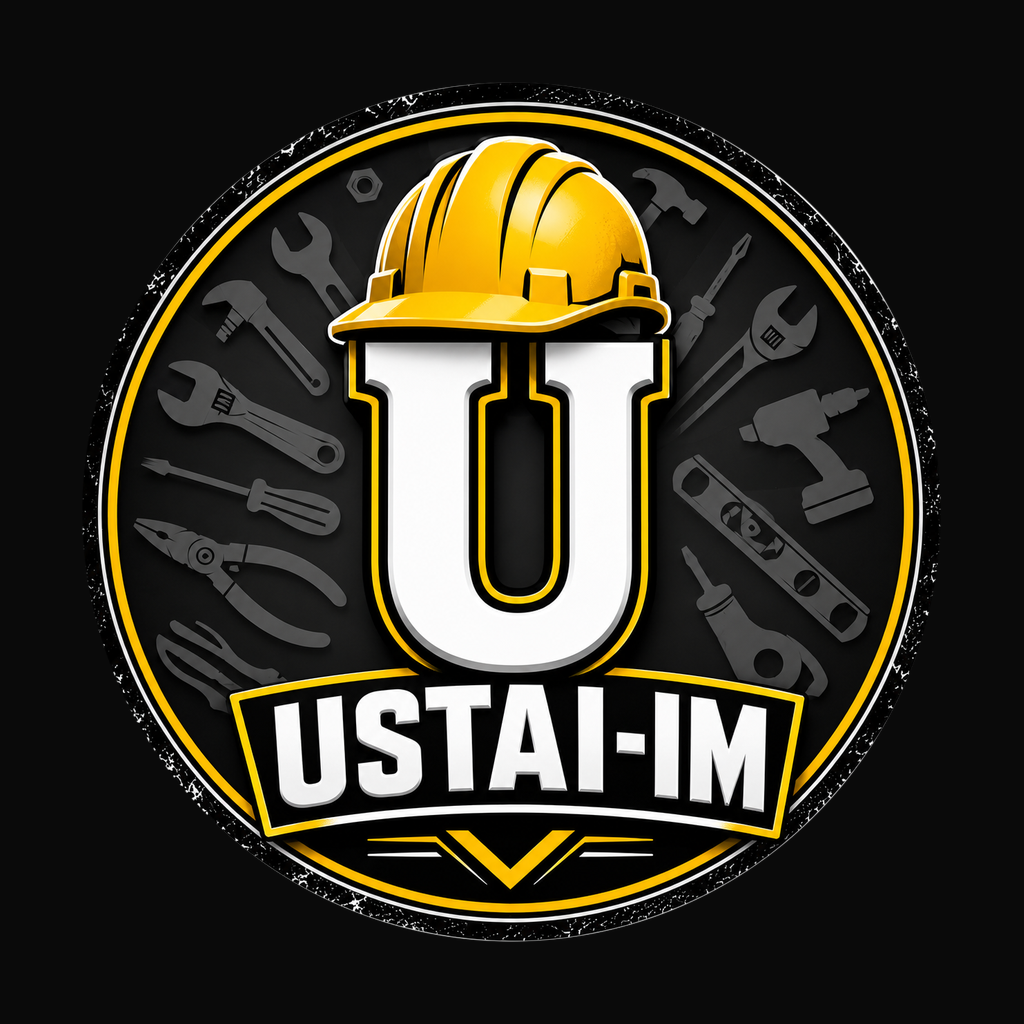
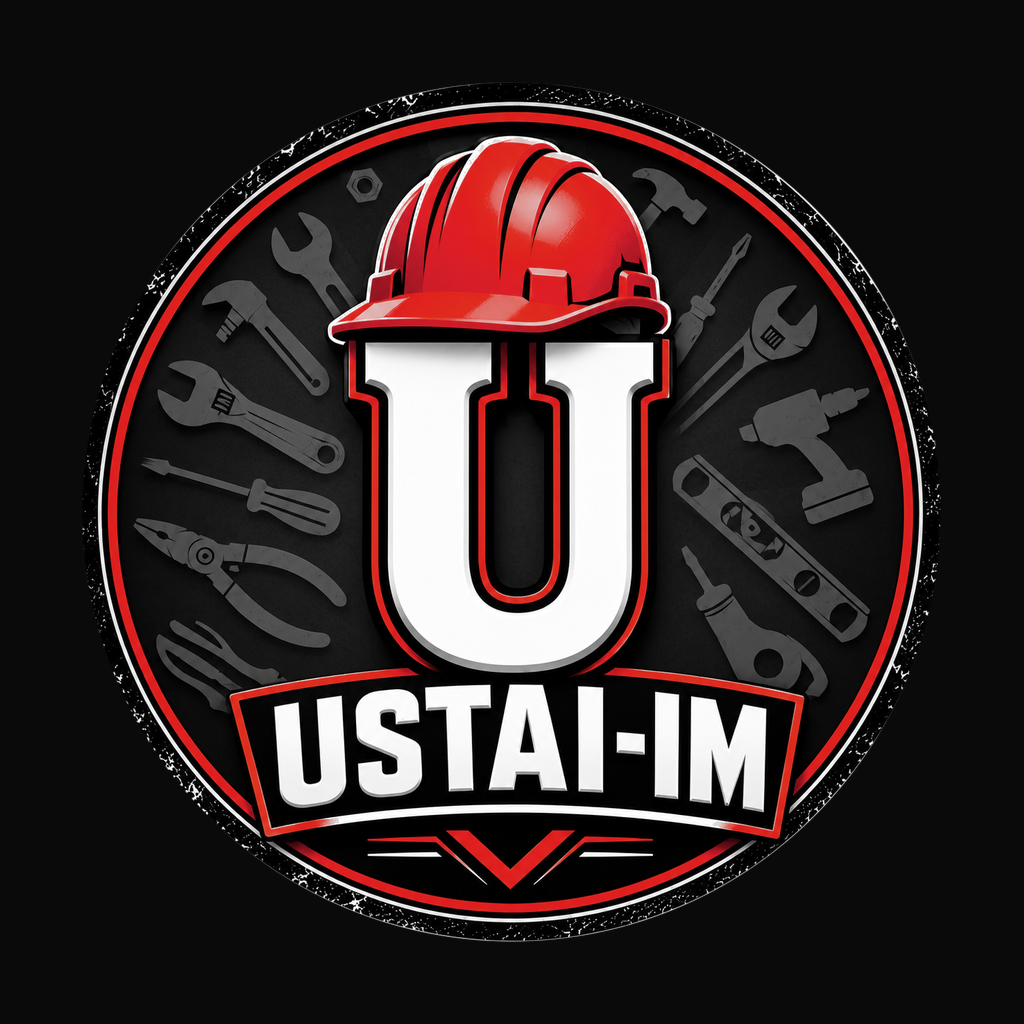
fix(brand): ikona/ngjyra te kuqe #E11D2E + rregullon 17 mojibake ne admin-dashboard

diff --git a/admin-dashboard/index.html b/admin-dashboard/index.html
@@ -1,4 +1,4 @@
-<!DOCTYPE html>
+<!DOCTYPE html>
 <html lang="sq">
 <head>
 <meta charset="UTF-8" />
@@ -8,32 +8,32 @@
 <style>
   * { box-sizing: border-box; }
   body { font-family: -apple-system, Arial, sans-serif; margin: 0; background: #000000; color: #ffffff; }
-  header { background: #141414; color: #FF7A1A; padding: 18px 30px; border-bottom: 2px solid #FF7A1A; display: flex; justify-content: space-between; align-items: center; }
+  header { background: #141414; color: #E11D2E; padding: 18px 30px; border-bottom: 2px solid #E11D2E; display: flex; justify-content: space-between; align-items: center; }
   header h1 { margin: 0; font-size: 20px; }
-  header button { background: transparent; border: 1px solid #FF7A1A; color: #FF7A1A; padding: 8px 14px; border-radius: 8px; cursor: pointer; }
+  header button { background: transparent; border: 1px solid #E11D2E; color: #E11D2E; padding: 8px 14px; border-radius: 8px; cursor: pointer; }
   .login-box { max-width: 360px; margin: 100px auto; padding: 30px; background: #141414; border-radius: 12px; box-shadow: 0 2px 10px rgba(0,0,0,.5); border: 1px solid #2A2A2A; }
-  .login-box h2 { color: #FF7A1A; }
+  .login-box h2 { color: #E11D2E; }
   .login-box input { width: 100%; padding: 10px; margin-bottom: 12px; border: 1px solid #2A2A2A; border-radius: 8px; box-sizing: border-box; background: #000; color: #fff; }
-  .login-box button, .toolbar button, .form-inline button { background: #FF7A1A; color: #000; border: none; padding: 10px 16px; border-radius: 8px; cursor: pointer; font-weight: 700; }
+  .login-box button, .toolbar button, .form-inline button { background: #E11D2E; color: #000; border: none; padding: 10px 16px; border-radius: 8px; cursor: pointer; font-weight: 700; }
   main { display: flex; max-width: 1400px; margin: 0 auto; }
   nav.tabs { width: 200px; flex-shrink: 0; padding: 20px 10px; border-right: 1px solid #2A2A2A; min-height: calc(100vh - 60px); }
   nav.tabs button { display: block; width: 100%; text-align: left; background: transparent; border: none; color: #B3B3B3; padding: 12px 14px; border-radius: 8px; cursor: pointer; font-size: 14px; margin-bottom: 4px; }
-  nav.tabs button.aktiv { background: #1c1400; color: #FF7A1A; font-weight: 700; }
+  nav.tabs button.aktiv { background: #1c0508; color: #E11D2E; font-weight: 700; }
   nav.tabs button:hover { background: #141414; }
   .permbajtja { flex: 1; padding: 24px; }
   .faqe { display: none; }
   .faqe.aktive { display: block; }
   .kartat { display: grid; grid-template-columns: repeat(auto-fit, minmax(200px, 1fr)); gap: 16px; margin-bottom: 30px; }
   .karta { background: #141414; padding: 20px; border-radius: 12px; box-shadow: 0 1px 4px rgba(0,0,0,.4); border: 1px solid #2A2A2A; }
-  .karta .vlera { font-size: 26px; font-weight: 800; color: #FF7A1A; }
+  .karta .vlera { font-size: 26px; font-weight: 800; color: #E11D2E; }
   .karta .etiketa { color: #b3b3b3; font-size: 13px; margin-top: 4px; }
   table { width: 100%; border-collapse: collapse; background: #141414; border-radius: 12px; overflow: hidden; border: 1px solid #2A2A2A; }
   th, td { padding: 10px 14px; text-align: left; border-bottom: 1px solid #2A2A2A; font-size: 13px; color: #eaeaea; vertical-align: top; }
-  th { background: #1c1c1c; color: #FF7A1A; }
+  th { background: #1c1c1c; color: #E11D2E; }
   tr:hover td { background: #1a1a1a; }
-  a { color: #FF7A1A; }
+  a { color: #E11D2E; }
   .badge-pritje { background: #FFB020; color: #000; padding: 2px 8px; border-radius: 6px; font-size: 11px; }
-  .badge-ok { background: #FF7A1A; color: #000; padding: 2px 8px; border-radius: 6px; font-size: 11px; }
+  .badge-ok { background: #E11D2E; color: #000; padding: 2px 8px; border-radius: 6px; font-size: 11px; }
   .badge-ban { background: #E5484D; color: #fff; padding: 2px 8px; border-radius: 6px; font-size: 11px; }
   .form-inline { display: flex; gap: 8px; margin-bottom: 16px; }
 </style>
@@ -48,7 +48,7 @@
   <p id="loginError" style="color:red;font-size:13px;"></p>
   <p style="font-size:12px;color:#8a8a8a;margin-top:14px;">
     Serveri: <span id="pbInfo"></span><br />
-    <a href="#" id="pbNdrysho" style="color:#FF7A1A;">Ndrysho serverin</a>
+    <a href="#" id="pbNdrysho" style="color:#E11D2E;">Ndrysho serverin</a>
   </p>
 </div>
 
@@ -59,10 +59,10 @@
   </header>
   <main>
     <nav class="tabs" id="tabet">
-      <button class="aktiv" data-faqe="permbledhje" onclick="shkoTekFaqja(this)">📊 Përmbledhje</button>
-      <button data-faqe="konfliktet" onclick="shkoTekFaqja(this)">⚠ Konfliktet</button>
-      <button data-faqe="verifikimet" onclick="shkoTekFaqja(this)">✅ Verifikimet</button>
-      <button data-faqe="administrimi" onclick="shkoTekFaqja(this)">⚙ Administrimi</button>
+      <button class="aktiv" data-faqe="permbledhje" onclick="shkoTekFaqja(this)">📚 Përmbledhje</button>
+      <button data-faqe="konfliktet" onclick="shkoTekFaqja(this)">âš ï¸ Konfliktet</button>
+      <button data-faqe="verifikimet" onclick="shkoTekFaqja(this)">✓ Verifikimet</button>
+      <button data-faqe="administrimi" onclick="shkoTekFaqja(this)">âš™ï¸ Administrimi</button>
     </nav>
     <div class="permbajtja">
       <div class="faqe aktive" id="faqja-permbledhje">

diff --git a/src/lib/pdfService.ts b/src/lib/pdfService.ts
@@ -9,7 +9,7 @@ export class PDFService {
         <head>
           <style>
             body { font-family: 'Helvetica'; padding: 20px; background: #fff; color: #333; }
-            h1 { color: #FF7A1A; text-align: center; }
+            h1 { color: #E11D2E; text-align: center; }
             table { width: 100%; border-collapse: collapse; margin-top: 20px; }
             th, td { border: 1px solid #ddd; padding: 12px; text-align: left; }
             th { background-color: #f2f2f2; }

diff --git a/src/lib/pushNotifications.ts b/src/lib/pushNotifications.ts
@@ -51,7 +51,7 @@ export async function regjistroPerNjoftime() {
       name: 'default',
       importance: Notifications.AndroidImportance.MAX,
       vibrationPattern: [0, 250, 250, 250],
-      lightColor: '#FF7A1A',
+      lightColor: '#E11D2E',
     });
   }
 

diff --git a/src/theme/colors.ts b/src/theme/colors.ts
@@ -1,5 +1,5 @@
 export const NGJYRAT = {
-  primare: '#FF7A1A',
+  primare: '#E11D2E',
   sfondi: '#0A0A0A',
   sfondiKarte: '#141414',
   teksti: '#FFFFFF',

diff --git a/scripts/recolor-logo-red.py b/scripts/recolor-logo-red.py
@@ -1,0 +1,108 @@
+#!/usr/bin/env python3
+# -*- coding: utf-8 -*-
+"""USTAI-IM — rikthen tonet e verdhë të logos në të kuqe (E11D2E).
+
+Prek vetëm PIXELËT me ngjyrë të verdhë/portokalli (hue 10°–85°), duke
+ruajtur hijet, gradientet dhe skajet e butë (anti-aliasing) — meqë vetëm
+ndryshon "temperaturën" e ngjyrës, jo strukturën.
+
+Shkruan mbi vend:  assets/logo-master.png
+
+Përdorimi:  python scripts/recolor-logo-red.py
+Backup:     assets/logo-master.yellow-backup.png (krijohet një herë)
+"""
+
+import colorsys
+import os
+import shutil
+import sys
+
+import numpy as np
+from PIL import Image
+
+ROOT = os.path.dirname(os.path.dirname(os.path.abspath(__file__)))
+MASTER = os.path.join(ROOT, "assets", "logo-master.png")
+BACKUP = os.path.join(ROOT, "assets", "logo-master.yellow-backup.png")
+
+# --- ngjyra e re e brandit -------------------------------------------------
+NEW_HEX = "#E11D2E"
+N_R, N_G, N_B = (int(NEW_HEX[i:i + 2], 16) / 255.0 for i in (1, 3, 5))
+NEW_H, NEW_S, NEW_V = colorsys.rgb_to_hsv(N_R, N_G, N_B)
+
+# --- intervali i toneve që preken -----------------------------------------
+HUE_LO, HUE_HI = 10.0 / 360.0, 85.0 / 360.0
+SAT_MIN = 0.02
+
+
+def main():
+    if not os.path.exists(MASTER):
+        raise SystemExit(f"Mungon {MASTER}")
+    if not os.path.exists(BACKUP):
+        shutil.copy2(MASTER, BACKUP)
+        print("-> Backup i krijuar:", os.path.basename(BACKUP))
+
+    im = Image.open(MASTER).convert("RGBA")
+    arr = np.array(im).astype(np.float32) / 255.0
+    rgb, alpha = arr[..., :3], arr[..., 3]
+
+    # RGB -> HSV me vektorizim (ndryshe nga colorsys që nuk mbështet NumPy)
+    mx = rgb.max(axis=-1)
+    mn = rgb.min(axis=-1)
+    d = mx - mn
+    hue = np.zeros_like(mx)
+    r, g, b = rgb[..., 0], rgb[..., 1], rgb[..., 2]
+    nz = d > 1e-6
+    idx = nz & (mx == r)
+    hue[idx] = ((g[idx] - b[idx]) / d[idx]) % 6
+    idx = nz & (mx == g)
+    hue[idx] = ((b[idx] - r[idx]) / d[idx]) + 2
+    idx = nz & (mx == b)
+    hue[idx] = ((r[idx] - g[idx]) / d[idx]) + 4
+    hue /= 6.0
+    sat = np.where(mx > 1e-6, d / np.where(mx > 1e-6, mx, 1.0), 0.0)
+
+    mask = nz & (sat >= SAT_MIN) & (hue >= HUE_LO) & (hue <= HUE_HI) & (alpha > 0)
+
+    n = int(mask.sum())
+    if n == 0:
+        print("-> Asnjë pixel i verdhë nuk u gjet; logoja është tashmë e kuqe.")
+        return
+
+    # ---- Rotacion i hue-s: 45° (verdhja) -> 0° (e kuqja) ----------------
+    # Hue relative (p.sh. 55° portokalli ose 35° ochre) mbahet, ndaj
+    # gradientet brenda logos mbeten të njëjta — ndryshon vetëm "familja".
+    REF_HUE = 45.0 / 360.0
+    rot_hue = (hue[mask] - REF_HUE) % 1.0
+
+    # Shkallëzojmë V-në dhe S-në ndaj vlerat më të ndritura të verdhës të
+    # arrijnë saktësisht tonin e ri (i njëjti "ndriçim" perceptiv).
+    k_v = NEW_V / max(float(mx[mask].max()), 1e-6)
+    new_v = np.clip(mx[mask] * k_v, 0.0, 1.0)
+    s_mask = sat[mask]
+    k_s = NEW_S / max(float(s_mask.max()), 1e-6)
+    new_s = np.clip(s_mask * k_s, 0.0, 1.0)
+
+    # HSV -> RGB (formula standarde)
+    i = np.floor(rot_hue * 6.0).astype(int)
+    f = rot_hue * 6.0 - i
+    p_ = new_v * (1.0 - new_s)
+    q_ = new_v * (1.0 - new_s * f)
+    t_ = new_v * (1.0 - new_s * (1.0 - f))
+    r_out = np.select([i == 0, i == 1, i == 2, i == 3, i == 4, i == 5],
+                      [new_v, q_, p_, p_, t_, new_v])
+    g_out = np.select([i == 0, i == 1, i == 2, i == 3, i == 4, i == 5],
+                      [t_, new_v, new_v, q_, p_, p_])
+    b_out = np.select([i == 0, i == 1, i == 2, i == 3, i == 4, i == 5],
+                      [p_, p_, t_, new_v, new_v, q_])
+
+    out = rgb.copy()
+    out[mask, 0], out[mask, 1], out[mask, 2] = r_out, g_out, b_out
+
+    result = np.concatenate([out, alpha[..., None]], axis=-1)
+    Image.fromarray((result * 255.0).round().clip(0, 255).astype(np.uint8), "RGBA").save(MASTER, "PNG", optimize=True)
+    print(f"-> {n:,} pikselë të verdhë u rikthyen në {NEW_HEX} ({im.size[0]}x{im.size[1]})".replace(",", "."))
+    print("-> Shkruar:", os.path.relpath(MASTER, ROOT))
+
+
+if __name__ == "__main__":
+    sys.exit(main())

diff --git a/scripts/icons_lib.py b/scripts/icons_lib.py
@@ -17,7 +17,7 @@ from PIL import Image, ImageDraw
 # ─────────────────────────── ngjyrat e brendit ───────────────────────────
 # Përputhen me src/theme/colors.ts
 SFONDI = (0x0A, 0x0A, 0x0A, 255)  # NGJYRAT.sfondi
-PRIMARE = (0xFF, 0x7A, 0x1A, 255)  # NGJYRAT.primare
+PRIMARE = (0xE1, 0x1D, 0x2E, 255)  # NGJYRAT.primare
 
 # Google (ngjyrat zyrtare)
 G_BLUE = (66, 133, 244)

diff --git a/README.md b/README.md
@@ -183,7 +183,7 @@ Dark Mode, ngjyrat në `src/theme/colors.ts`:
 
 ```typescript
 {
-  primare: '#FF7A1A',        // Portokalli
+  primare: '#E11D2E',        // E kuqja
   sfondi: '#0A0A0A',         // E zezë
   sfondiKarte: '#141414',    // Gri e errët
   teksti: '#FFFFFF',
